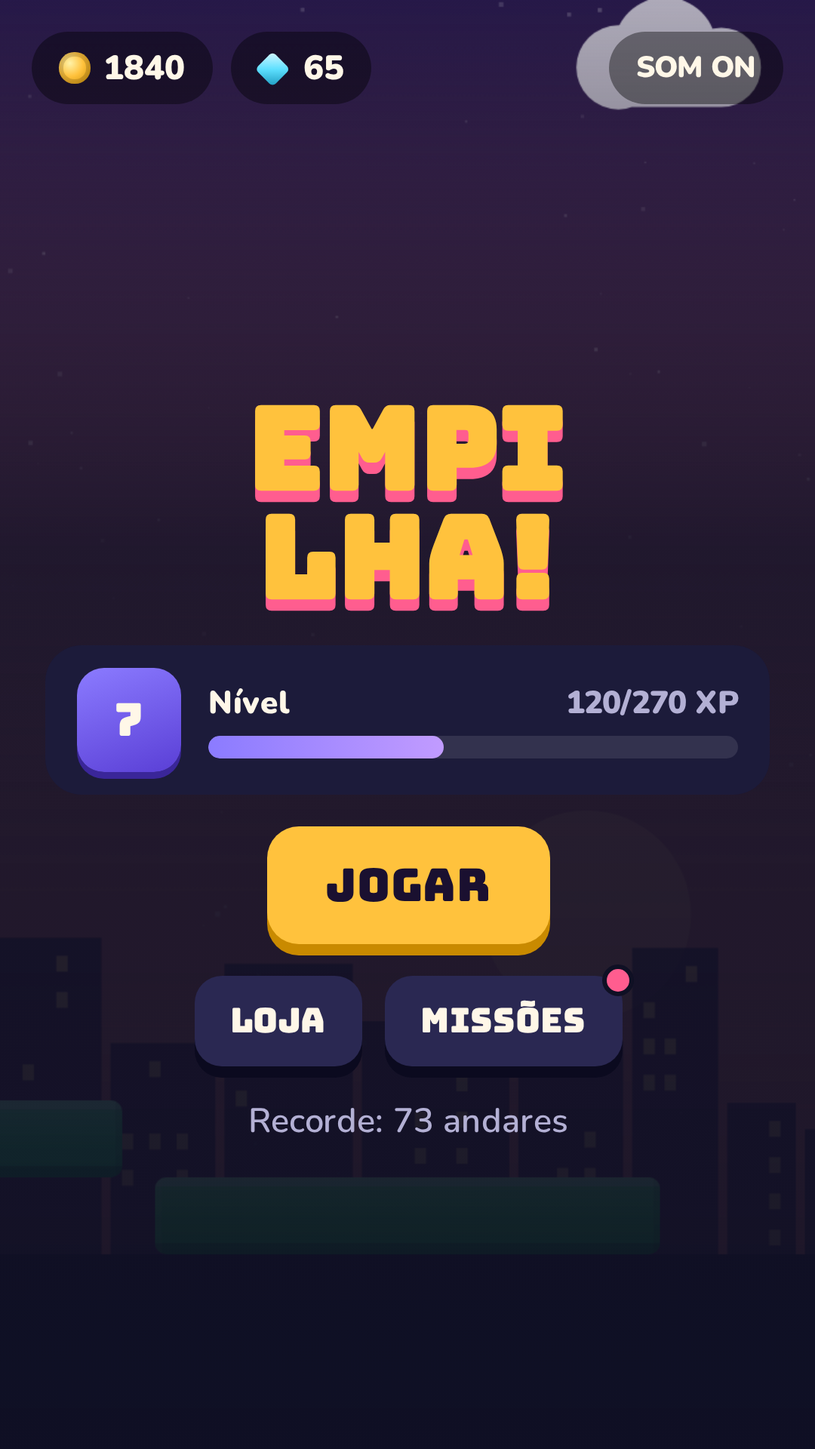
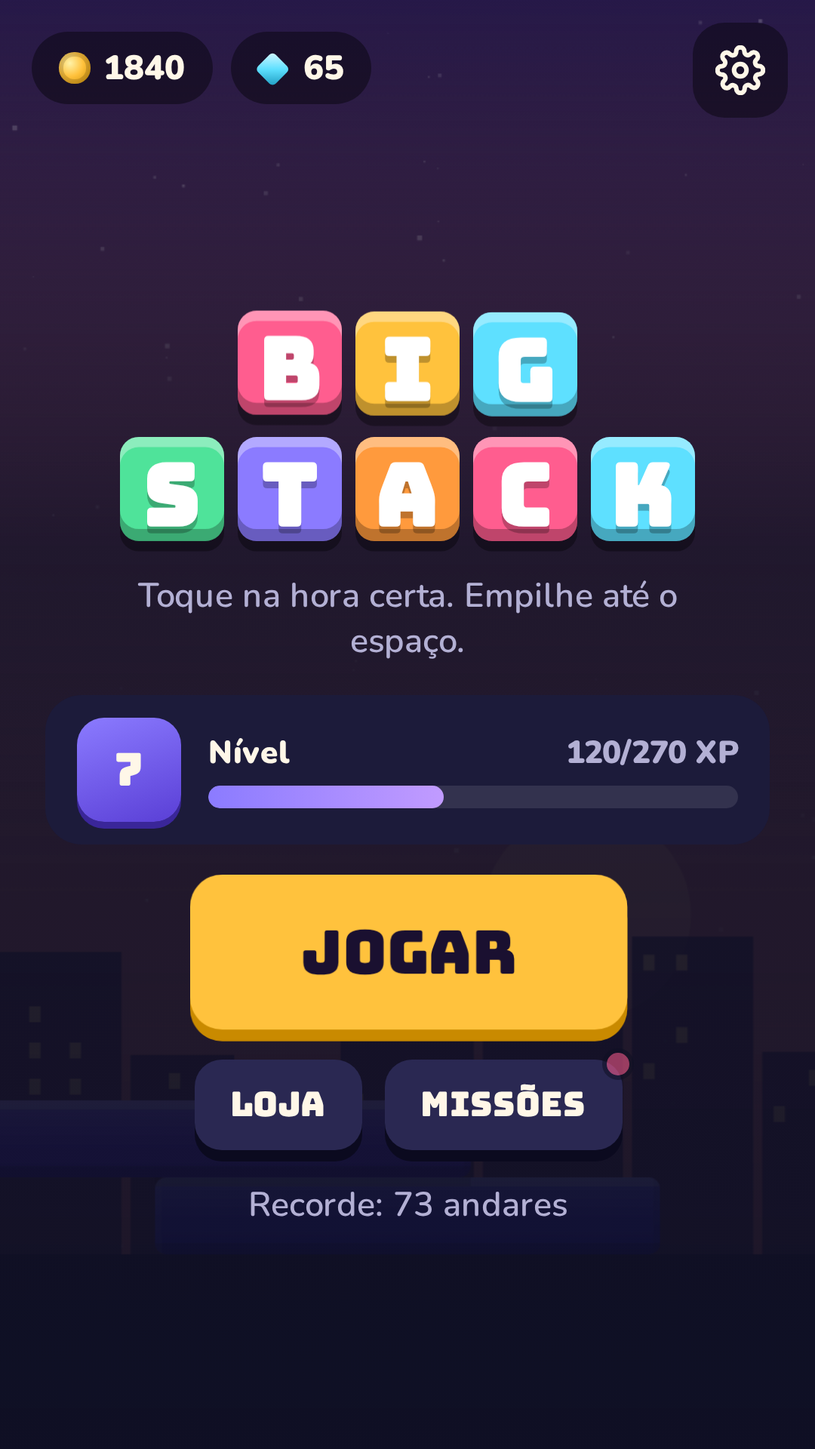
Big Stack: novo nome, sons e música, ajustes, 3 idiomas, abertura, pausa e animações
Claude-Session: https://claude.ai/code/session_01E5oNWsSbdp2QXTiwpgCcBF

Changed region(s): [[0.0917, 0.1875, 0.9167, 0.8438], [0.7028, 0.0, 0.9778, 0.0938]]

diff --git a/src/game.template.html b/src/game.template.html
@@ -400,65 +400,8 @@ function toast(s){const el=$('toast');el.hidden=true;void el.offsetWidth;el.text
 function banner(sub,txt){$('bannerHost').innerHTML=`<div id="banner"><small>${sub}</small><span>${txt}</span></div>`}
 function bump(id){const el=$(id);el.classList.add('bump');setTimeout(()=>el.classList.remove('bump'),150)}
 
-/* ================= SKINS ================= */
-const BH=34;let hue0=200,tNow=0;
-const hsl=(h,s,l,a=1)=>`hsla(${((h%360)+360)%360},${s}%,${l}%,${a})`;
-const hash=n=>{n=Math.sin(n*127.1)*43758.5453;return n-Math.floor(n)};
-function vgrad(c,y,stops){const g=c.createLinearGradient(0,y,0,y+BH);stops.forEach((s,k)=>g.addColorStop(k/(stops.length-1),s));return g}
-function rr(c,x,y,w,h,r){r=Math.min(r,w/2,h/2);c.beginPath();c.moveTo(x+r,y);c.arcTo(x+w,y,x+w,y+h,r);c.arcTo(x+w,y+h,x,y+h,r);c.arcTo(x,y+h,x,y,r);c.arcTo(x,y,x+w,y,r);c.closePath()}
-function bevel(c,x,y,w,top=.3,bot=.25){c.fillStyle=`rgba(255,255,255,${top})`;c.fillRect(x,y,w,4);c.fillStyle=`rgba(0,0,0,${bot})`;c.fillRect(x,y+BH-5,w,5);c.fillStyle='rgba(255,255,255,.1)';c.fillRect(x,y,3,BH);c.fillStyle='rgba(0,0,0,.12)';c.fillRect(x+w-3,y,3,BH)}
-// every pattern uses world x (not block x), so cut pieces keep matching the block below
-const SKINS=[
- {id:'classic',name:'Arco-íris',cur:'coin',price:0,draw(c,x,y,w,i){const h=hue0+i*9;c.fillStyle=vgrad(c,y,[hsl(h,85,66),hsl(h,80,54),hsl(h,78,46)]);c.fillRect(x,y,w,BH);bevel(c,x,y,w)}},
- {id:'candy',name:'Doce',cur:'coin',price:250,draw(c,x,y,w,i){const P=[[340,90,82],[190,85,78],[48,95,78],[265,85,84],[140,70,78]][i%5];c.fillStyle=hsl(P[0],P[1],P[2]);c.fillRect(x,y,w,BH);c.fillStyle='rgba(255,255,255,.5)';for(let s=Math.floor(x/18)*18-BH;s<x+w;s+=18){c.beginPath();c.moveTo(s,y+BH);c.lineTo(s+8,y+BH);c.lineTo(s+8+BH,y);c.lineTo(s+BH,y);c.fill()}c.fillStyle='rgba(255,255,255,.7)';c.fillRect(x,y,w,5);c.fillStyle=hsl(P[0],P[1]-20,P[2]-18);c.fillRect(x,y+BH-5,w,5)}},
- {id:'wood',name:'Madeira',cur:'coin',price:400,draw(c,x,y,w,i){const l=i%2?44:38;c.fillStyle=vgrad(c,y,[hsl(30,52,l+8),hsl(28,55,l),hsl(24,55,l-7)]);c.fillRect(x,y,w,BH);c.strokeStyle='rgba(70,35,10,.35)';c.lineWidth=1.4;for(let k=0;k<3;k++){c.beginPath();const yy=y+10+k*7;for(let X=Math.floor(x/6)*6;X<=x+w;X+=6){const v=yy+Math.sin(X*.05+k*2+i)*1.8;X===Math.floor(x/6)*6?c.moveTo(X,v):c.lineTo(X,v)}c.stroke()}const kx=(hash(i)*260)|0;for(let K=kx;K<x+w+400;K+=260){if(K>x+6&&K<x+w-6){c.fillStyle='rgba(70,35,10,.4)';c.beginPath();c.ellipse(K,y+BH/2,5,3,0,0,7);c.fill()}}bevel(c,x,y,w,.22,.25)}},
- {id:'pixel',name:'Pixel',cur:'coin',price:600,r:0,draw(c,x,y,w,i){const h=[130,210,28,320,265][i%5];const sz=BH/4;const x0=Math.floor(x/sz)*sz;for(let r=0;r<4;r++)for(let X=x0;X<x+w;X+=sz){const odd=((X/sz|0)+r)%2;const l=r===0?66:r===3?38:(odd?52:47);c.fillStyle=hsl(h,70,l);c.fillRect(X,y+r*sz,sz+.5,sz+.5)}c.fillStyle='rgba(0,0,0,.35)';c.fillRect(x,y+BH-2,w,2)}},
- {id:'ice',name:'Gelo',cur:'coin',price:900,draw(c,x,y,w,i){c.fillStyle=vgrad(c,y,['rgba(236,251,255,.97)','rgba(160,224,250,.9)','rgba(96,176,226,.92)']);c.fillRect(x,y,w,BH);c.fillStyle='rgba(255,255,255,.55)';for(let s=Math.floor(x/70)*70+((i*23)%70);s<x+w+BH;s+=70){c.beginPath();c.moveTo(s,y+BH);c.lineTo(s+7,y+BH);c.lineTo(s+7+BH*.8,y);c.lineTo(s+BH*.8,y);c.fill();c.beginPath();c.moveTo(s+12,y+BH);c.lineTo(s+15,y+BH);c.lineTo(s+15+BH*.8,y);c.lineTo(s+12+BH*.8,y);c.fill()}bevel(c,x,y,w,.6,.18)}},
- {id:'neon',name:'Neon',cur:'coin',price:1500,r:4,draw(c,x,y,w,i){const h=hue0+i*24;c.fillStyle='#0d0a1f';c.fillRect(x,y,w,BH);c.strokeStyle=hsl(h,100,60,.18);c.lineWidth=1;for(let X=Math.ceil(x/14)*14;X<x+w;X+=14){c.beginPath();c.moveTo(X,y);c.lineTo(X,y+BH);c.stroke()}const p=.75+.25*Math.sin(tNow*.005+i);c.strokeStyle=hsl(h,100,60,.35*p);c.lineWidth=7;c.strokeRect(x+4,y+4,w-8,BH-8);c.strokeStyle=hsl(h,100,72);c.lineWidth=2.5;c.strokeRect(x+4,y+4,w-8,BH-8)}},
- {id:'jade',name:'Jade',cur:'lvl',price:5,draw(c,x,y,w,i){c.fillStyle=vgrad(c,y,['#9af5cf','#3fc98e','#1c8a5e']);c.fillRect(x,y,w,BH);c.strokeStyle='rgba(255,255,255,.3)';c.lineWidth=2;c.beginPath();for(let X=Math.floor(x/5)*5;X<=x+w;X+=5){const v=y+BH/2+Math.sin(X*.035+i*1.7)*8+Math.sin(X*.11)*2;X===Math.floor(x/5)*5?c.moveTo(X,v):c.lineTo(X,v)}c.stroke();bevel(c,x,y,w,.4,.22)}},
- {id:'sunset',name:'Pôr do Sol',cur:'lvl',price:10,draw(c,x,y,w,i){const g=c.createLinearGradient(0,0,W,0);g.addColorStop(0,'#ff5d8f');g.addColorStop(.5,'#ff9a3d');g.addColorStop(1,'#8b5cf6');c.fillStyle=g;c.fillRect(x,y,w,BH);c.fillStyle='rgba(255,240,200,.35)';c.fillRect(x,y+12,w,3);c.fillRect(x,y+20,w,2);bevel(c,x,y,w)}},
- {id:'diamond',name:'Diamante',cur:'lvl',price:20,draw(c,x,y,w,i){c.fillStyle='#bdf3ff';c.fillRect(x,y,w,BH);const s=17;for(let X=Math.floor(x/s)*s;X<x+w;X+=s){const a=hash(X*.37+i),b=hash(X*.91+i);c.fillStyle=`rgba(255,255,255,${.25+a*.6})`;c.beginPath();c.moveTo(X,y);c.lineTo(X+s,y);c.lineTo(X+s/2,y+BH/2);c.fill();c.fillStyle=`rgba(60,160,220,${.2+b*.45})`;c.beginPath();c.moveTo(X,y+BH);c.lineTo(X+s,y+BH);c.lineTo(X+s/2,y+BH/2);c.fill()}const sp=((tNow*.25+i*60)%(W+160))-80;if(sp>x-10&&sp<x+w+10){c.fillStyle='#fff';c.beginPath();c.moveTo(sp,y+BH/2-7);c.lineTo(sp+2,y+BH/2);c.lineTo(sp,y+BH/2+7);c.lineTo(sp-2,y+BH/2);c.fill()}bevel(c,x,y,w,.5,.18)}},
- {id:'gold',name:'Ouro',cur:'gem',price:40,draw(c,x,y,w,i){c.fillStyle=vgrad(c,y,['#fff4c2','#f5c542','#d99a16','#9c6a05']);c.fillRect(x,y,w,BH);c.fillStyle='rgba(120,80,0,.3)';c.fillRect(x,y+BH/2,w,1.5);const sx=((tNow*.3+i*47)%(W+220))-110;c.fillStyle='rgba(255,255,255,.6)';c.beginPath();c.moveTo(sx,y+BH);c.lineTo(sx+10,y+BH);c.lineTo(sx+10+BH*.7,y);c.lineTo(sx+BH*.7,y);c.fill();bevel(c,x,y,w,.5,.2)}},
- {id:'lava',name:'Lava',cur:'gem',price:60,draw(c,x,y,w,i){const p=.6+.4*Math.sin(tNow*.004+i*.7);c.fillStyle=vgrad(c,y,['#3a1610','#24100c','#ff5a1f']);c.fillRect(x,y,w,BH);c.fillStyle=`rgba(255,120,30,${.35+.35*p})`;c.fillRect(x,y+BH-8,w,8);c.lineCap='round';const x0=Math.floor(x/16)*16;const pts=[];for(let X=x0;X<=x+w+16;X+=16)pts.push([X,y+9+hash(X*.13+i)*14]);[[8,`rgba(255,110,20,${.3*p})`],[2.5,`rgb(255,${170+60*p|0},60)`]].forEach(([lw,col])=>{c.strokeStyle=col;c.lineWidth=lw;c.beginPath();pts.forEach(([a,b],k)=>k?c.lineTo(a,b):c.moveTo(a,b));c.stroke()});c.fillStyle='rgba(255,255,255,.12)';c.fillRect(x,y,w,3)}},
- {id:'galaxy',name:'Galáxia',cur:'gem',price:90,draw(c,x,y,w,i){const g=c.createLinearGradient(0,0,W,0);g.addColorStop(0,'#1b0b45');g.addColorStop(.5,'#5a1d8f');g.addColorStop(1,'#0e2a6b');c.fillStyle=g;c.fillRect(x,y,w,BH);const nx=hash(i*3.1)*W;const rg=c.createRadialGradient(nx,y+BH/2,0,nx,y+BH/2,70);rg.addColorStop(0,'rgba(255,120,200,.45)');rg.addColorStop(1,'rgba(255,120,200,0)');c.fillStyle=rg;c.fillRect(x,y,w,BH);for(let X=Math.floor(x/9)*9;X<x+w;X+=9){const a=hash(X*.7+i*13);if(a>.45){const tw=.4+.6*Math.abs(Math.sin(tNow*.003+X));c.fillStyle=`rgba(255,255,255,${tw})`;const s=a>.9?2.2:1.3;c.fillRect(X+hash(X+i)*6,y+4+hash(X*1.3+i)*(BH-8),s,s)}}bevel(c,x,y,w,.18,.3)}},
-];
-const skinOf=id=>SKINS.find(s=>s.id===id)||SKINS[0];
-function block(x,y,w,i,alpha=1,c=ctx,sk){if(w<=.5)return;sk=sk||skinOf(S.skin);c.save();c.globalAlpha=alpha;rr(c,x,y,w,BH,sk.r??5);c.clip();sk.draw(c,x,y,w,i);c.restore()}
-
-
-/* ================= WORLDS ================= */
-const WORLDS=[
- {at:0,name:'CIDADE',top:[43,27,79],bot:[224,115,106]},
- {at:25,name:'NUVENS',top:[46,120,200],bot:[160,215,245]},
- {at:50,name:'AURORA',top:[6,18,31],bot:[18,70,80]},
- {at:100,name:'ESPAÇO',top:[2,1,10],bot:[20,10,42]},
-];
-const EVENT={1:'Cuidado com o vento',2:'Blocos em velocidade maluca',3:'Velocidade máxima maior'};
-const worldOf=f=>f>=100?3:f>=50?2:f>=25?1:0;
-let skyF=0,city=[],clouds=[],stars=[];
-function buildCity(){city=[];let x=-10;while(x<W+10){const w=26+Math.random()*40,h=40+Math.random()*120;city.push({x,w,h,win:Array.from({length:12},()=>Math.random()<.35)});x+=w+4}}
-for(let k=0;k<26;k++)clouds.push({f:14+k*2.2+Math.random()*2,x:Math.random(),s:.6+Math.random()*.8,v:(Math.random()-.5)*.0004});
-for(let k=0;k<90;k++)stars.push({x:Math.random(),y:Math.random(),s:Math.random()*1.8+.4,p:Math.random()*6});
-function skyColor(key){let col=WORLDS[0][key].slice();for(let k=1;k<WORLDS.length;k++){const t=clamp((skyF-(WORLDS[k].at-8))/8,0,1);col=col.map((v,j)=>v+(WORLDS[k][key][j]-v)*t)}return `rgb(${col.map(v=>v|0).join(',')})`}
-function drawWorld(){
-  const g=ctx.createLinearGradient(0,0,0,H);g.addColorStop(0,skyColor('top'));g.addColorStop(1,skyColor('bot'));ctx.fillStyle=g;ctx.fillRect(0,0,W,H);
-  const nightA=clamp((skyF-40)/15,0,1)*.9+.25*(1-clamp(skyF/20,0,1));
-  for(const s of stars){const a=nightA*(.4+.6*Math.abs(Math.sin(tNow*.001+s.p)));if(a<.02)continue;ctx.fillStyle=`rgba(255,255,255,${a})`;ctx.fillRect(s.x*W,((s.y*H+cam*.08)%H),s.s,s.s)}
-  // aurora
-  const au=clamp((skyF-44)/8,0,1)*(1-clamp((skyF-96)/8,0,1));
-  if(au>0){for(let b=0;b<3;b++){ctx.beginPath();const base=H*(.18+b*.12);ctx.moveTo(0,base);for(let X=0;X<=W;X+=10)ctx.lineTo(X,base+Math.sin(X*.012+tNow*.0006*(b+1)+b)*26);ctx.lineTo(W,base+70);ctx.lineTo(0,base+70);const ag=ctx.createLinearGradient(0,base-30,0,base+70);ag.addColorStop(0,`rgba(90,255,170,0)`);ag.addColorStop(.4,`rgba(${b?120:80},255,${b?220:160},${.22*au})`);ag.addColorStop(1,'rgba(90,255,170,0)');ctx.fillStyle=ag;ctx.fill()}}
-  // planets
-  [[108,.78,46,'#ff9a6b','#8a2f4a'],[150,.2,30,'#7fd1ff','#2a4b9c'],[200,.65,60,'#c9a3ff','#4b2a8a']].forEach(([f,px,r,a,b])=>{const y=yOf(f)*.5+H*.2;if(y<-r||y>H+r)return;const pg=ctx.createRadialGradient(px*W-r*.4,y-r*.4,r*.1,px*W,y,r);pg.addColorStop(0,a);pg.addColorStop(1,b);ctx.fillStyle=pg;ctx.beginPath();ctx.arc(px*W,y,r,0,7);ctx.fill()});
-  // city
-  const gy=yOf(0)+BH;
-  if(gy-180<H){ctx.fillStyle='rgba(255,210,150,.25)';ctx.beginPath();ctx.arc(W*.72,gy-150,46,0,7);ctx.fill();
-    for(const b of city){ctx.fillStyle='rgba(30,16,56,.75)';ctx.fillRect(b.x,gy-b.h,b.w,b.h);ctx.fillStyle='rgba(255,215,120,.55)';b.win.forEach((on,k)=>{if(!on)return;const cx=b.x+5+(k%3)*((b.w-10)/3),cy=gy-b.h+8+Math.floor(k/3)*16;if(cy<gy-6)ctx.fillRect(cx,cy,5,7)})}
-    ctx.fillStyle='#1a1030';ctx.fillRect(0,gy,W,H)}
-  // clouds
-  for(const cl of clouds){cl.x=(cl.x+cl.v+(worldOf(score)===1&&state==='play'?windDir*.0012:0)+1)%1;const y=yOf(cl.f);if(y<-40||y>H+40)continue;const x=cl.x*(W+160)-80,s=cl.s;ctx.fillStyle='rgba(255,255,255,.75)';ctx.beginPath();ctx.arc(x,y,18*s,0,7);ctx.arc(x+20*s,y-8*s,22*s,0,7);ctx.arc(x+44*s,y,17*s,0,7);ctx.rect(x,y,44*s,17*s);ctx.fill()}
-}
-
-
+//@@SKINS@@
+//@@WORLDS@@
 /* ================= GAME ================= */
 const BASEW=0.62;
 let stack=[],moving=null,debris=[],parts=[],floats=[],rings=[],cam=0,camT=0,score=0,combo=0,perfects=0,maxCombo=0,state='menu',speed=4.2,shake=0,flash=0,lastT=0,landT=-1e9;

diff --git a/src/skins.part.js b/src/skins.part.js
@@ -1,0 +1,25 @@
+/* ================= SKINS ================= */
+const BH=34;let hue0=200,tNow=0;
+const hsl=(h,s,l,a=1)=>`hsla(${((h%360)+360)%360},${s}%,${l}%,${a})`;
+const hash=n=>{n=Math.sin(n*127.1)*43758.5453;return n-Math.floor(n)};
+function vgrad(c,y,stops){const g=c.createLinearGradient(0,y,0,y+BH);stops.forEach((s,k)=>g.addColorStop(k/(stops.length-1),s));return g}
+function rr(c,x,y,w,h,r){r=Math.min(r,w/2,h/2);c.beginPath();c.moveTo(x+r,y);c.arcTo(x+w,y,x+w,y+h,r);c.arcTo(x+w,y+h,x,y+h,r);c.arcTo(x,y+h,x,y,r);c.arcTo(x,y,x+w,y,r);c.closePath()}
+function bevel(c,x,y,w,top=.3,bot=.25){c.fillStyle=`rgba(255,255,255,${top})`;c.fillRect(x,y,w,4);c.fillStyle=`rgba(0,0,0,${bot})`;c.fillRect(x,y+BH-5,w,5);c.fillStyle='rgba(255,255,255,.1)';c.fillRect(x,y,3,BH);c.fillStyle='rgba(0,0,0,.12)';c.fillRect(x+w-3,y,3,BH)}
+// every pattern uses world x (not block x), so cut pieces keep matching the block below
+const SKINS=[
+ {id:'classic',name:'Arco-íris',cur:'coin',price:0,draw(c,x,y,w,i){const h=hue0+i*9;c.fillStyle=vgrad(c,y,[hsl(h,85,66),hsl(h,80,54),hsl(h,78,46)]);c.fillRect(x,y,w,BH);bevel(c,x,y,w)}},
+ {id:'candy',name:'Doce',cur:'coin',price:250,draw(c,x,y,w,i){const P=[[340,90,82],[190,85,78],[48,95,78],[265,85,84],[140,70,78]][i%5];c.fillStyle=hsl(P[0],P[1],P[2]);c.fillRect(x,y,w,BH);c.fillStyle='rgba(255,255,255,.5)';for(let s=Math.floor(x/18)*18-BH;s<x+w;s+=18){c.beginPath();c.moveTo(s,y+BH);c.lineTo(s+8,y+BH);c.lineTo(s+8+BH,y);c.lineTo(s+BH,y);c.fill()}c.fillStyle='rgba(255,255,255,.7)';c.fillRect(x,y,w,5);c.fillStyle=hsl(P[0],P[1]-20,P[2]-18);c.fillRect(x,y+BH-5,w,5)}},
+ {id:'wood',name:'Madeira',cur:'coin',price:400,draw(c,x,y,w,i){const l=i%2?44:38;c.fillStyle=vgrad(c,y,[hsl(30,52,l+8),hsl(28,55,l),hsl(24,55,l-7)]);c.fillRect(x,y,w,BH);c.strokeStyle='rgba(70,35,10,.35)';c.lineWidth=1.4;for(let k=0;k<3;k++){c.beginPath();const yy=y+10+k*7;for(let X=Math.floor(x/6)*6;X<=x+w;X+=6){const v=yy+Math.sin(X*.05+k*2+i)*1.8;X===Math.floor(x/6)*6?c.moveTo(X,v):c.lineTo(X,v)}c.stroke()}const kx=(hash(i)*260)|0;for(let K=kx;K<x+w+400;K+=260){if(K>x+6&&K<x+w-6){c.fillStyle='rgba(70,35,10,.4)';c.beginPath();c.ellipse(K,y+BH/2,5,3,0,0,7);c.fill()}}bevel(c,x,y,w,.22,.25)}},
+ {id:'pixel',name:'Pixel',cur:'coin',price:600,r:0,draw(c,x,y,w,i){const h=[130,210,28,320,265][i%5];const sz=BH/4;const x0=Math.floor(x/sz)*sz;for(let r=0;r<4;r++)for(let X=x0;X<x+w;X+=sz){const odd=((X/sz|0)+r)%2;const l=r===0?66:r===3?38:(odd?52:47);c.fillStyle=hsl(h,70,l);c.fillRect(X,y+r*sz,sz+.5,sz+.5)}c.fillStyle='rgba(0,0,0,.35)';c.fillRect(x,y+BH-2,w,2)}},
+ {id:'ice',name:'Gelo',cur:'coin',price:900,draw(c,x,y,w,i){c.fillStyle=vgrad(c,y,['rgba(236,251,255,.97)','rgba(160,224,250,.9)','rgba(96,176,226,.92)']);c.fillRect(x,y,w,BH);c.fillStyle='rgba(255,255,255,.55)';for(let s=Math.floor(x/70)*70+((i*23)%70);s<x+w+BH;s+=70){c.beginPath();c.moveTo(s,y+BH);c.lineTo(s+7,y+BH);c.lineTo(s+7+BH*.8,y);c.lineTo(s+BH*.8,y);c.fill();c.beginPath();c.moveTo(s+12,y+BH);c.lineTo(s+15,y+BH);c.lineTo(s+15+BH*.8,y);c.lineTo(s+12+BH*.8,y);c.fill()}bevel(c,x,y,w,.6,.18)}},
+ {id:'neon',name:'Neon',cur:'coin',price:1500,r:4,draw(c,x,y,w,i){const h=hue0+i*24;c.fillStyle='#0d0a1f';c.fillRect(x,y,w,BH);c.strokeStyle=hsl(h,100,60,.18);c.lineWidth=1;for(let X=Math.ceil(x/14)*14;X<x+w;X+=14){c.beginPath();c.moveTo(X,y);c.lineTo(X,y+BH);c.stroke()}const p=.75+.25*Math.sin(tNow*.005+i);c.strokeStyle=hsl(h,100,60,.35*p);c.lineWidth=7;c.strokeRect(x+4,y+4,w-8,BH-8);c.strokeStyle=hsl(h,100,72);c.lineWidth=2.5;c.strokeRect(x+4,y+4,w-8,BH-8)}},
+ {id:'jade',name:'Jade',cur:'lvl',price:5,draw(c,x,y,w,i){c.fillStyle=vgrad(c,y,['#9af5cf','#3fc98e','#1c8a5e']);c.fillRect(x,y,w,BH);c.strokeStyle='rgba(255,255,255,.3)';c.lineWidth=2;c.beginPath();for(let X=Math.floor(x/5)*5;X<=x+w;X+=5){const v=y+BH/2+Math.sin(X*.035+i*1.7)*8+Math.sin(X*.11)*2;X===Math.floor(x/5)*5?c.moveTo(X,v):c.lineTo(X,v)}c.stroke();bevel(c,x,y,w,.4,.22)}},
+ {id:'sunset',name:'Pôr do Sol',cur:'lvl',price:10,draw(c,x,y,w,i){const g=c.createLinearGradient(0,0,W,0);g.addColorStop(0,'#ff5d8f');g.addColorStop(.5,'#ff9a3d');g.addColorStop(1,'#8b5cf6');c.fillStyle=g;c.fillRect(x,y,w,BH);c.fillStyle='rgba(255,240,200,.35)';c.fillRect(x,y+12,w,3);c.fillRect(x,y+20,w,2);bevel(c,x,y,w)}},
+ {id:'diamond',name:'Diamante',cur:'lvl',price:20,draw(c,x,y,w,i){c.fillStyle='#bdf3ff';c.fillRect(x,y,w,BH);const s=17;for(let X=Math.floor(x/s)*s;X<x+w;X+=s){const a=hash(X*.37+i),b=hash(X*.91+i);c.fillStyle=`rgba(255,255,255,${.25+a*.6})`;c.beginPath();c.moveTo(X,y);c.lineTo(X+s,y);c.lineTo(X+s/2,y+BH/2);c.fill();c.fillStyle=`rgba(60,160,220,${.2+b*.45})`;c.beginPath();c.moveTo(X,y+BH);c.lineTo(X+s,y+BH);c.lineTo(X+s/2,y+BH/2);c.fill()}const sp=((tNow*.25+i*60)%(W+160))-80;if(sp>x-10&&sp<x+w+10){c.fillStyle='#fff';c.beginPath();c.moveTo(sp,y+BH/2-7);c.lineTo(sp+2,y+BH/2);c.lineTo(sp,y+BH/2+7);c.lineTo(sp-2,y+BH/2);c.fill()}bevel(c,x,y,w,.5,.18)}},
+ {id:'gold',name:'Ouro',cur:'gem',price:40,draw(c,x,y,w,i){c.fillStyle=vgrad(c,y,['#fff4c2','#f5c542','#d99a16','#9c6a05']);c.fillRect(x,y,w,BH);c.fillStyle='rgba(120,80,0,.3)';c.fillRect(x,y+BH/2,w,1.5);const sx=((tNow*.3+i*47)%(W+220))-110;c.fillStyle='rgba(255,255,255,.6)';c.beginPath();c.moveTo(sx,y+BH);c.lineTo(sx+10,y+BH);c.lineTo(sx+10+BH*.7,y);c.lineTo(sx+BH*.7,y);c.fill();bevel(c,x,y,w,.5,.2)}},
+ {id:'lava',name:'Lava',cur:'gem',price:60,draw(c,x,y,w,i){const p=.6+.4*Math.sin(tNow*.004+i*.7);c.fillStyle=vgrad(c,y,['#3a1610','#24100c','#ff5a1f']);c.fillRect(x,y,w,BH);c.fillStyle=`rgba(255,120,30,${.35+.35*p})`;c.fillRect(x,y+BH-8,w,8);c.lineCap='round';const x0=Math.floor(x/16)*16;const pts=[];for(let X=x0;X<=x+w+16;X+=16)pts.push([X,y+9+hash(X*.13+i)*14]);[[8,`rgba(255,110,20,${.3*p})`],[2.5,`rgb(255,${170+60*p|0},60)`]].forEach(([lw,col])=>{c.strokeStyle=col;c.lineWidth=lw;c.beginPath();pts.forEach(([a,b],k)=>k?c.lineTo(a,b):c.moveTo(a,b));c.stroke()});c.fillStyle='rgba(255,255,255,.12)';c.fillRect(x,y,w,3)}},
+ {id:'galaxy',name:'Galáxia',cur:'gem',price:90,draw(c,x,y,w,i){const g=c.createLinearGradient(0,0,W,0);g.addColorStop(0,'#1b0b45');g.addColorStop(.5,'#5a1d8f');g.addColorStop(1,'#0e2a6b');c.fillStyle=g;c.fillRect(x,y,w,BH);const nx=hash(i*3.1)*W;const rg=c.createRadialGradient(nx,y+BH/2,0,nx,y+BH/2,70);rg.addColorStop(0,'rgba(255,120,200,.45)');rg.addColorStop(1,'rgba(255,120,200,0)');c.fillStyle=rg;c.fillRect(x,y,w,BH);for(let X=Math.floor(x/9)*9;X<x+w;X+=9){const a=hash(X*.7+i*13);if(a>.45){const tw=.4+.6*Math.abs(Math.sin(tNow*.003+X));c.fillStyle=`rgba(255,255,255,${tw})`;const s=a>.9?2.2:1.3;c.fillRect(X+hash(X+i)*6,y+4+hash(X*1.3+i)*(BH-8),s,s)}}bevel(c,x,y,w,.18,.3)}},
+];
+const skinOf=id=>SKINS.find(s=>s.id===id)||SKINS[0];
+function block(x,y,w,i,alpha=1,c=ctx,sk){if(w<=.5)return;sk=sk||skinOf(S.skin);c.save();c.globalAlpha=alpha;rr(c,x,y,w,BH,sk.r??5);c.clip();sk.draw(c,x,y,w,i);c.restore()}
+

diff --git a/src/worlds.part.js b/src/worlds.part.js
@@ -1,0 +1,32 @@
+/* ================= WORLDS ================= */
+const WORLDS=[
+ {at:0,name:'CIDADE',top:[43,27,79],bot:[224,115,106]},
+ {at:25,name:'NUVENS',top:[46,120,200],bot:[160,215,245]},
+ {at:50,name:'AURORA',top:[6,18,31],bot:[18,70,80]},
+ {at:100,name:'ESPAÇO',top:[2,1,10],bot:[20,10,42]},
+];
+const EVENT={1:'Cuidado com o vento',2:'Blocos em velocidade maluca',3:'Velocidade máxima maior'};
+const worldOf=f=>f>=100?3:f>=50?2:f>=25?1:0;
+let skyF=0,city=[],clouds=[],stars=[];
+function buildCity(){city=[];let x=-10;while(x<W+10){const w=26+Math.random()*40,h=40+Math.random()*120;city.push({x,w,h,win:Array.from({length:12},()=>Math.random()<.35)});x+=w+4}}
+for(let k=0;k<26;k++)clouds.push({f:14+k*2.2+Math.random()*2,x:Math.random(),s:.6+Math.random()*.8,v:(Math.random()-.5)*.0004});
+for(let k=0;k<90;k++)stars.push({x:Math.random(),y:Math.random(),s:Math.random()*1.8+.4,p:Math.random()*6});
+function skyColor(key){let col=WORLDS[0][key].slice();for(let k=1;k<WORLDS.length;k++){const t=clamp((skyF-(WORLDS[k].at-8))/8,0,1);col=col.map((v,j)=>v+(WORLDS[k][key][j]-v)*t)}return `rgb(${col.map(v=>v|0).join(',')})`}
+function drawWorld(){
+  const g=ctx.createLinearGradient(0,0,0,H);g.addColorStop(0,skyColor('top'));g.addColorStop(1,skyColor('bot'));ctx.fillStyle=g;ctx.fillRect(0,0,W,H);
+  const nightA=clamp((skyF-40)/15,0,1)*.9+.25*(1-clamp(skyF/20,0,1));
+  for(const s of stars){const a=nightA*(.4+.6*Math.abs(Math.sin(tNow*.001+s.p)));if(a<.02)continue;ctx.fillStyle=`rgba(255,255,255,${a})`;ctx.fillRect(s.x*W,((s.y*H+cam*.08)%H),s.s,s.s)}
+  // aurora
+  const au=clamp((skyF-44)/8,0,1)*(1-clamp((skyF-96)/8,0,1));
+  if(au>0){for(let b=0;b<3;b++){ctx.beginPath();const base=H*(.18+b*.12);ctx.moveTo(0,base);for(let X=0;X<=W;X+=10)ctx.lineTo(X,base+Math.sin(X*.012+tNow*.0006*(b+1)+b)*26);ctx.lineTo(W,base+70);ctx.lineTo(0,base+70);const ag=ctx.createLinearGradient(0,base-30,0,base+70);ag.addColorStop(0,`rgba(90,255,170,0)`);ag.addColorStop(.4,`rgba(${b?120:80},255,${b?220:160},${.22*au})`);ag.addColorStop(1,'rgba(90,255,170,0)');ctx.fillStyle=ag;ctx.fill()}}
+  // planets
+  [[108,.78,46,'#ff9a6b','#8a2f4a'],[150,.2,30,'#7fd1ff','#2a4b9c'],[200,.65,60,'#c9a3ff','#4b2a8a']].forEach(([f,px,r,a,b])=>{const y=yOf(f)*.5+H*.2;if(y<-r||y>H+r)return;const pg=ctx.createRadialGradient(px*W-r*.4,y-r*.4,r*.1,px*W,y,r);pg.addColorStop(0,a);pg.addColorStop(1,b);ctx.fillStyle=pg;ctx.beginPath();ctx.arc(px*W,y,r,0,7);ctx.fill()});
+  // city
+  const gy=yOf(0)+BH;
+  if(gy-180<H){ctx.fillStyle='rgba(255,210,150,.25)';ctx.beginPath();ctx.arc(W*.72,gy-150,46,0,7);ctx.fill();
+    for(const b of city){ctx.fillStyle='rgba(30,16,56,.75)';ctx.fillRect(b.x,gy-b.h,b.w,b.h);ctx.fillStyle='rgba(255,215,120,.55)';b.win.forEach((on,k)=>{if(!on)return;const cx=b.x+5+(k%3)*((b.w-10)/3),cy=gy-b.h+8+Math.floor(k/3)*16;if(cy<gy-6)ctx.fillRect(cx,cy,5,7)})}
+    ctx.fillStyle='#1a1030';ctx.fillRect(0,gy,W,H)}
+  // clouds
+  for(const cl of clouds){cl.x=(cl.x+cl.v+(worldOf(score)===1&&state==='play'?windDir*.0012:0)+1)%1;const y=yOf(cl.f);if(y<-40||y>H+40)continue;const x=cl.x*(W+160)-80,s=cl.s;ctx.fillStyle='rgba(255,255,255,.75)';ctx.beginPath();ctx.arc(x,y,18*s,0,7);ctx.arc(x+20*s,y-8*s,22*s,0,7);ctx.arc(x+44*s,y,17*s,0,7);ctx.rect(x,y,44*s,17*s);ctx.fill()}
+}
+

diff --git a/docs/privacidade.html b/docs/privacidade.html
@@ -3,7 +3,7 @@
 <head>
 <meta charset="utf-8">
 <meta name="viewport" content="width=device-width, initial-scale=1">
-<title>Empilha! – Política de Privacidade</title>
+<title>Big Stack – Política de Privacidade</title>
 <style>
   :root{--bg:#fbfaff;--ink:#1d1a33;--muted:#5d5a78;--acc:#5a3fd6}
   @media (prefers-color-scheme:dark){:root{--bg:#0f1024;--ink:#f3f1ff;--muted:#b3b0d4;--acc:#b3a4ff}}
@@ -18,13 +18,13 @@
 </head>
 <body>
 <main>
-<h1>Política de Privacidade do Empilha!</h1>
-<p class="muted">Última atualização: 23 de setembro de 2026</p>
+<h1>Política de Privacidade do Big Stack</h1>
+<p class="muted">Última atualização: 24 de setembro de 2026</p>
 
-<p>Esta política explica quais dados o jogo <b>Empilha!</b> (Android, pacote <code>com.andrevillanova.empilha</code>) usa e por quê. O jogo é desenvolvido por André Villanova.</p>
+<p>Esta política explica quais dados o jogo <b>Big Stack</b> (Android, pacote <code>com.bighouse.bigstack</code>) usa e por quê. O jogo é desenvolvido por Bighouse (André Villanova).</p>
 
 <h2>Dados que o próprio jogo guarda</h2>
-<p>Seu progresso (moedas, cristais, skins, recorde, nível e missões) fica salvo <b>somente no seu aparelho</b>. Não temos servidores e não recebemos esses dados. Se você desinstalar o app ou limpar os dados dele, esse progresso pode ser perdido.</p>
+<p>Seu progresso e suas configurações (moedas, cristais, skins, recorde, nível, missões, som e idioma) ficam salvos <b>somente no seu aparelho</b>. Não temos servidores e não recebemos esses dados. Se você desinstalar o app ou limpar os dados dele, esse progresso pode ser perdido.</p>
 
 <h2>Anúncios (Google AdMob)</h2>
 <p>O jogo mostra vídeos premiados <b>apenas quando você escolhe</b> assistir, para reviver numa partida. Esses anúncios são fornecidos pelo Google AdMob, que pode coletar e usar dados como o ID de publicidade do aparelho, endereço IP, modelo do aparelho, informações de uso do app e dados de diagnóstico para exibir anúncios, medir resultados e evitar fraudes. Onde a lei exige (por exemplo, na União Europeia), o jogo pede seu consentimento antes.</p>
@@ -34,7 +34,7 @@
 <p>Os pacotes de cristais são vendidos pelo sistema de pagamentos do Google Play. Seus dados de pagamento são tratados pelo Google e nunca chegam até nós. O jogo recebe apenas a confirmação de que a compra foi feita, para entregar os cristais.</p>
 
 <h2>Crianças</h2>
-<p>O Empilha! não é direcionado a crianças menores de 13 anos e não coleta intencionalmente dados pessoais delas.</p>
+<p>O Big Stack não é direcionado a crianças menores de 13 anos e não coleta intencionalmente dados pessoais delas.</p>
 
 <h2>Seus direitos (LGPD)</h2>
 <p>Como não armazenamos seus dados pessoais em servidores próprios, apagar o app remove os dados que o jogo guarda. Para dados tratados pelo Google (anúncios e pagamentos), use as ferramentas da sua Conta Google. Dúvidas sobre esta política podem ser enviadas para o contato abaixo.</p>

diff --git a/docs/index.html b/docs/index.html
@@ -1,3 +1,3 @@
-<!doctype html><html lang="pt-BR"><head><meta charset="utf-8"><meta name="viewport" content="width=device-width, initial-scale=1"><title>Empilha!</title>
+<!doctype html><html lang="pt-BR"><head><meta charset="utf-8"><meta name="viewport" content="width=device-width, initial-scale=1"><title>Big Stack</title>
 <style>body{margin:0;background:#0f1024;color:#fff7e8;font:17px/1.6 system-ui,sans-serif;display:grid;place-items:center;min-height:100vh;text-align:center;padding:0 18px}h1{color:#ffc23d;font-size:44px;margin:0}a{color:#5ee0ff}</style></head>
-<body><main><h1>Empilha!</h1><p>Toque na hora certa, empilhe blocos e chegue ao espaço.</p><p><a href="privacidade.html">Política de Privacidade</a></p></main></body></html>
+<body><main><h1>Big Stack</h1><p>Toque na hora certa, empilhe blocos e chegue ao espaço. Um jogo da Bighouse.</p><p><a href="privacidade.html">Política de Privacidade</a></p></main></body></html>

diff --git a/src/build-game.js b/src/build-game.js
@@ -1,0 +1,8 @@
+// Monta www/index.html a partir do template + partes (skins, mundos).
+const fs=require('fs'),path=require('path');
+const d=__dirname;
+let html=fs.readFileSync(path.join(d,'game.template.html'),'utf8');
+html=html.replace('//@@SKINS@@',()=>fs.readFileSync(path.join(d,'skins.part.js'),'utf8'))
+         .replace('//@@WORLDS@@',()=>fs.readFileSync(path.join(d,'worlds.part.js'),'utf8'));
+fs.writeFileSync(path.join(d,'..','www','index.html'),html);
+console.log('www/index.html', html.length,'bytes');

diff --git a/src/patch-android.py b/src/patch-android.py
@@ -1,0 +1,38 @@
+# Aplica as configurações do Big Stack no projeto Android gerado pelo Capacitor.
+import re
+p='android/app/build.gradle';s=open(p).read()
+if 'VERSION_CODE' not in s:
+    s=s.replace('''        versionCode 1
+        versionName "1.0"''','''        // Número da versão vem do GitHub Actions (cada build = +1)
+        versionCode ((System.getenv("VERSION_CODE") ?: "1") as Integer)
+        versionName "1.1." + (System.getenv("VERSION_CODE") ?: "1")
+        // ID do app no AdMob (vem do workflow). Vazio = ID de teste do Google.
+        manifestPlaceholders = [admobAppId: (System.getenv("ADMOB_APP_ID") ?: "ca-app-pub-3940256099942544~3347511713")]''')
+    s=s.replace('''    buildTypes {
+        release {''','''    signingConfigs {
+        release {
+            if (System.getenv("KEYSTORE_PATH")) {
+                storeFile file(System.getenv("KEYSTORE_PATH"))
+                storePassword System.getenv("KEYSTORE_PASSWORD")
+                keyAlias System.getenv("KEY_ALIAS")
+                keyPassword System.getenv("KEY_PASSWORD")
+            }
+        }
+    }
+    buildTypes {
+        release {
+            if (System.getenv("KEYSTORE_PATH")) signingConfig signingConfigs.release''')
+    open(p,'w').write(s)
+p='android/app/src/main/AndroidManifest.xml';s=open(p).read()
+if 'APPLICATION_ID' not in s:
+    s=s.replace('''        android:theme="@style/AppTheme">
+''','''        android:theme="@style/AppTheme">
+
+        <meta-data
+            android:name="com.google.android.gms.ads.APPLICATION_ID"
+            android:value="${admobAppId}"/>
+''',1)
+    s=s.replace('android:launchMode="singleTask"','android:launchMode="singleTask"\n            android:screenOrientation="portrait"')
+    s=s.replace('<uses-permission android:name="android.permission.INTERNET" />','<uses-permission android:name="android.permission.INTERNET" />\n    <uses-permission android:name="android.permission.VIBRATE" />')
+    open(p,'w').write(s)
+print('ok')

diff --git a/android/app/src/main/java/com/bighouse/bigstack/MainActivity.java b/android/app/src/main/java/com/bighouse/bigstack/MainActivity.java
@@ -1,4 +1,4 @@
-package com.andrevillanova.empilha;
+package com.bighouse.bigstack;
 
 import com.getcapacitor.BridgeActivity;
 

diff --git a/store/ficha-da-loja.md b/store/ficha-da-loja.md
@@ -1,7 +1,7 @@
 # Ficha da loja (Google Play) — copie e cole
 
 **Nome do app (até 30):**
-Empilha! Torre de Blocos
+Big Stack: Torre de Blocos
 
 **Descrição curta (até 80):**
 Toque na hora certa, empilhe blocos e leve sua torre da cidade até o espaço!
@@ -9,7 +9,7 @@ Toque na hora certa, empilhe blocos e leve sua torre da cidade até o espaço!
 **Descrição completa:**
 Quanto alto você consegue empilhar?
 
-Empilha! é um jogo rápido e viciante: o bloco vai e volta, você toca na hora certa e ele cai na torre. O que passar da borda é cortado. Acerte em cheio para fazer PERFEITO, encadear combos e fazer o bloco crescer de novo.
+Big Stack é um jogo rápido e viciante: o bloco vai e volta, você toca na hora certa e ele cai na torre. O que passar da borda é cortado. Acerte em cheio para fazer PERFEITO, encadear combos e fazer o bloco crescer de novo. A cada andar, fica um pouquinho mais rápido.
 
 🏙 MUNDOS
 Comece na cidade, suba pelas nuvens com vento forte, atravesse a aurora e chegue ao espaço. Cada mundo muda o jeito de jogar.
@@ -26,6 +26,12 @@ Doce, Madeira, Pixel, Gelo, Neon, Ouro, Lava, Galáxia e skins exclusivas de ní
 ⭐ NÍVEIS
 Ganhe XP em cada partida, suba de nível e desbloqueie recompensas.
 
+🎵 SOM RELAXANTE
+Trilha tranquila e efeitos musicais que sobem de tom a cada combo. Ajuste música, efeitos e vibração como quiser.
+
+🌎 EM 3 IDIOMAS
+Português, English e Español.
+
 ❤ SEGUNDA CHANCE
 Caiu? Assista a um vídeo opcional e continue de onde parou. Sem anúncios forçados no meio do jogo.
 
@@ -34,7 +40,7 @@ Jogue offline, em partidas de um minuto, onde quiser. Bata seu recorde!
 **Categoria:** Jogos > Casual
 **Tags sugeridas:** Casual, Arcade, Um toque, Offline
 **E-mail de contato:** andreluizvillanova123@gmail.com
-**Política de privacidade:** https://SEU-USUARIO.github.io/empilha/privacidade.html
+**Política de privacidade:** https://andreunicos.github.io/empilha/privacidade.html
 
 ## Imagens (nesta pasta)
 - Ícone 512x512: icon-512.png

diff --git a/README.md b/README.md
@@ -1,8 +1,9 @@
-# Empilha!
+# Big Stack
 
-Jogo mobile de empilhar blocos (Android), feito com HTML + Capacitor.
+Jogo mobile de empilhar blocos (Android) da Bighouse, feito com HTML + Capacitor.
 
-- `www/` — o jogo (index.html) e a ponte nativa gerada (`native.js`)
+- `src/game.template.html` + `src/*.part.js` — o jogo (gera `www/index.html` com `npm run build`)
+- `www/img/studio-logo.png` — logo da Bighouse na abertura (opcional)
 - `src/native.js` — AdMob (vídeo premiado) e Google Play Billing (cristais)
 - `android/` — projeto Android
 - `store/` — ícone, arte, prints e textos da Play Store
@@ -10,8 +11,8 @@ Jogo mobile de empilhar blocos (Android), feito com HTML + Capacitor.
 
 ## Como sai uma versão nova
 Todo envio para a branch `main` roda o GitHub Actions ("Montar app Android") e cria um **Release** com:
-- `empilha-1.0.N.aab` → enviar para o Google Play Console
-- `empilha-1.0.N.apk` → instalar direto no celular para testar
+- `bigstack-1.1.N.aab` → enviar para o Google Play Console
+- `bigstack-1.1.N.apk` → instalar direto no celular para testar
 
 ## Configuração (Settings > Secrets and variables > Actions)
 Segredos: `KEYSTORE_BASE64`, `KEYSTORE_PASSWORD`, `KEY_ALIAS`, `KEY_PASSWORD`
